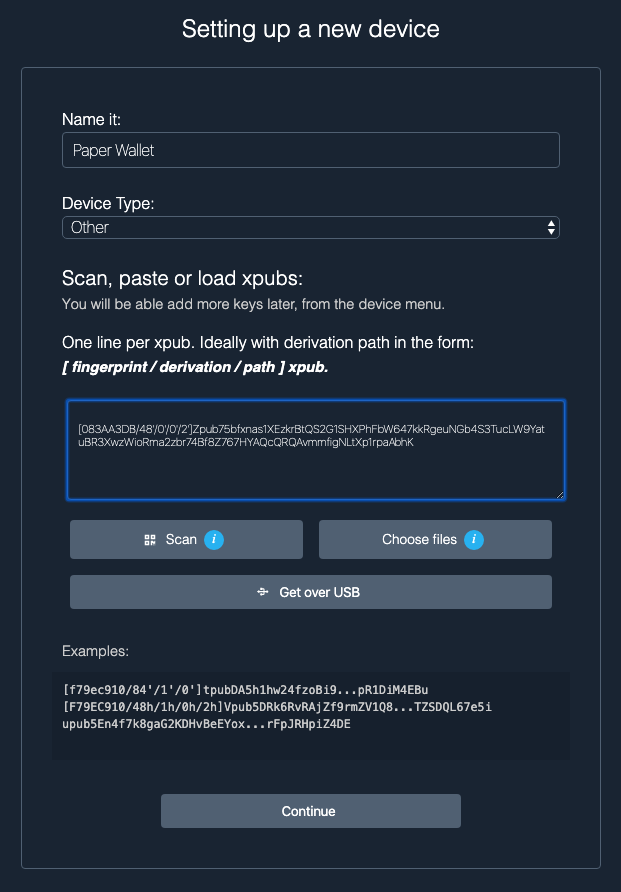
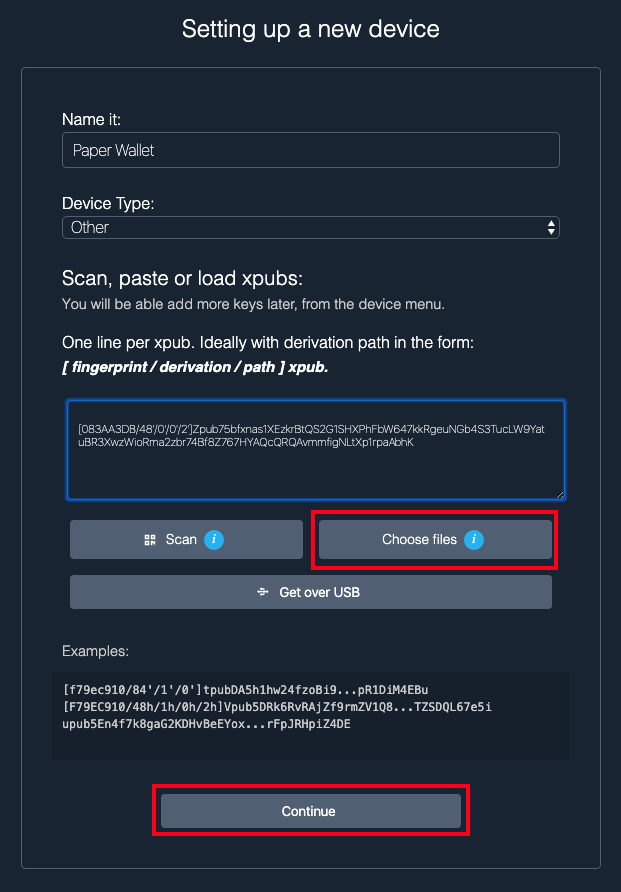
improve paper wallet setup instructions

diff --git a/_pages/setup-wallets/paper.md b/_pages/setup-wallets/paper.md
@@ -2,20 +2,11 @@
 title: Setup Paper Wallet
 ---
 
-# Expert User Caution
-There is currently a step here that requires very advanced users to figure out.
-This should be updated soon:  
-<https://github.com/merland/seedpicker/issues/26>
 
-**Only expert users should proceed!**
-
----
-
-
-By using a paper wallet generated in software, we eliminate the need to buy a third hardware wallet (you may have to buy a hardware wallet if you need to use the key for emergency recovery).
+By using a paper wallet generated in software, we eliminate the need to buy a third hardware wallet (you may later have to buy a hardware wallet if you need to use this key for emergency recovery).
 
 **Warning: this is the highest risk step in our multisig setup**.
-**Follow the instructions closely, and seriously consider hardening your security by using techniques described in [the advanced section](paper-advanced)**.
+**Follow the instructions closely, and seriously consider hardening your security** by using techniques described in [the advanced section](paper-advanced).
 
 
 ## Generate Seed
@@ -47,13 +38,12 @@ define rifle cliff summer priority ability chimney cotton tennis crash husband t
 You can read more about how the author recommends using SeedPicker [here](http://seedpicker.net/guide/GUIDE.html).
 
 #### Practice First with a Dry Run
-As this is just for testing, you don't have to worry about security at all!
-
+As the dry-run is just for testing, you don't have to worry about security at all.
 Use the following *insecure* seed phrase (the word `zoo` repeated 23 times):
 ```
 zoo zoo zoo zoo zoo zoo zoo zoo zoo zoo zoo zoo zoo zoo zoo zoo zoo zoo zoo zoo zoo zoo zoo 
 ```
-(A proper monkey would not pull the same word out of a hat 23 times in a row!)
+(an unbiased monkey would not pull the same word out of a hat 23 times in a row)
 
 ##### Steps
 1. Visit SeedPicker: <http://seedpicker.net/calculator/last-word.html>
@@ -63,22 +53,25 @@ zoo zoo zoo zoo zoo zoo zoo zoo zoo zoo zoo zoo zoo zoo zoo zoo zoo zoo zoo zoo 
 
 ##### Save the Output
 1. Write down the whole 24 word phrase (`zoo` repeated 23 times + `buddy` as the 24th word) *offline* on paper only.
-Do not save this to any computer!
+Do not save this to any computer.
 2. Put the extended public key data on a DVD-R or USB drive to share with Specter-Desktop.
-TODO: add more on how to do this when xfp download file is added: <https://github.com/merland/seedpicker/issues/26>
+`Show More` > `Export results to Specter (Click to download file)` > Click on file (`seedpickerxp-foo.json`)  
+![](/assets/img/setup-paper-seedpicker-save-json.png){:width="600px"}  
 
 
 #### Do it Live
-
-**Quit all applications, remove any removable media, and turn off your internet access before getting started.**
+**Quit all applications, remove any removable media, and turn off your internet access before continuing.**
 **Do not save the seed phrase to your hard drive (write it down on paper only), and restart your computer before restoring internet access.**
+
 It is *highly recommended* that you wipe your hard drive before restoring internet access.
+See [advanced section](paper-advanced) for more info.
 
-Now, repeat the steps above but with your real seed phrase (the 23 words you randomly drew out of a hat).
 
-## Export Public Key Info to Computer via QR Code / Webcam
-1. In the previous step, you saved your extended public key information (something like `[083AA3DB/48'/0'/0'/2']Zpub75b...bhK`) to a DVD-R or USB pen-drive.
-On Specter-Desktop: Click `+ Add new device`, enter a `Name` (like `Paper Wallet`), paste in the extended public key information, and hit `continue`:  
+## Export Public Key Info to Specter-Desktop
+In the previous step, you saved your extended public key information (`seedpickerxp-foo.json`) to a DVD-R or USB pen-drive.
+
+1. On Specter-Desktop: Click `+ Add new device`, enter a `Name` (like `Paper Wallet`), click `Choose files` and select your file (`seedpickerxp-foo.json`), and hit `continue`.
+Your file will be automatically parsed into something like this:  
 ![](/assets/img/setup-paper-specter-input.png){:width="800px"}  
 2. Your public key is now added to Specter-Desktop:  
 ![](/assets/img/setup-paper-display-pubkey.png){:width="800px"}  

diff --git a/_pages/setup-wallets/paper-advanced.md b/_pages/setup-wallets/paper-advanced.md
@@ -2,31 +2,6 @@
 title: Setup Paper Wallet
 ---
 
-## Verify Seed Generation
-
-#### Confirm Seed Matches Zpub
-This is important in case SeedPicker was actually replaced by malware trying to steal your bitcoin!
-We will confirm that the seed is valid, matches the expected `Zpub`, path and root fingerprint.
-
-This step is unfortunately complicated, as SeedPicker (see [basic section](./paper)) is the only GUI software that currently exists to make it easier.
-**Only advanced users who are comfortable with the command line should consider continuing.**
-
-##### Use HumanRNG Electrum Script
-<https://github.com/mflaxman/human-rng-electrum>
-
-TODO: add instructions.
-
-![](/assets/img/setup-paper-calculate-seed.png){:width="800px"}
-
-##### Use an Alternative Script
-Expert users only, currently a WIP placeholder.
-* [HumanRNG CLI Golang Script](https://github.com/mflaxman/human-rng-golang) (WIP [blocked by this PR](https://github.com/btcsuite/btcutil/issues/179))
-* HumanRNG CLI Python Script: TODO: add link
-
-#### Write Data to CD-Rs/DVD-Rs instead of USB Drives
-DVDs are less able to execute malware on your computer.
-They also help keep a permanent record for debugging, as they cannot be edited during/after setup.
-
 ## Use a Clean Machine
 If there were malware on your machine and this seed escaped, it would **significantly** degrade the security of your multisig scheme.
 Assuming your attacker has 1 of your `2-of-3` needed keys, then you effectively now have a `1-of-2` scheme.
@@ -59,6 +34,35 @@ You can further enhance this with two (optional) steps:
 * When wiping your hard drive, use [a secure erase program](https://askubuntu.com/questions/17640/how-can-i-securely-erase-a-hard-drive) to make sure that nothing survives.
 Note that these do not work perfectly on Flash memory (SSD drives), so the previous technique is preferred.
 You can read more about this [here](https://wiki.archlinux.org/index.php/Securely_wipe_disk) and [here](https://www.howtogeek.com/234683/why-you-cant-securely-delete-a-file-and-what-to-do-instead/).
+
+## Verify Seed Generation
+
+#### Confirm Seed Matches Zpub
+This is important in case SeedPicker was actually replaced by malware trying to steal your bitcoin!
+We will confirm that the seed is valid, matches the expected `root fingerprint` and `Zpub` (for that `path`).
+
+This step is unfortunately complicated, as SeedPicker (see [basic section](./paper)) is the only GUI software that currently exists to make it easier.
+**Only advanced users who are comfortable with the command line should continue.**
+
+##### Use HumanRNG Electrum Script
+<https://github.com/mflaxman/human-rng-electrum>
+
+TODO: add instructions.
+
+![](/assets/img/setup-paper-calculate-seed.png){:width="800px"}
+
+##### Use a Pure Command Line Interface (CLI) Script
+Expert users only: <https://github.com/mflaxman/human-rng-golang>
+
+#### Improve Airgap
+
+##### Option A: Write Data to CD/DVD instead of USB Drive
+DVDs are less able to execute malware on your computer.
+
+##### Option B: Use a QR-Code Airgap
+This is not currently documented.
+Pull requests with clarification are welcome.
+Specter-Desktop can recieve this info via QR-code airgap.
 
 ## Improve Seed Generation
 
